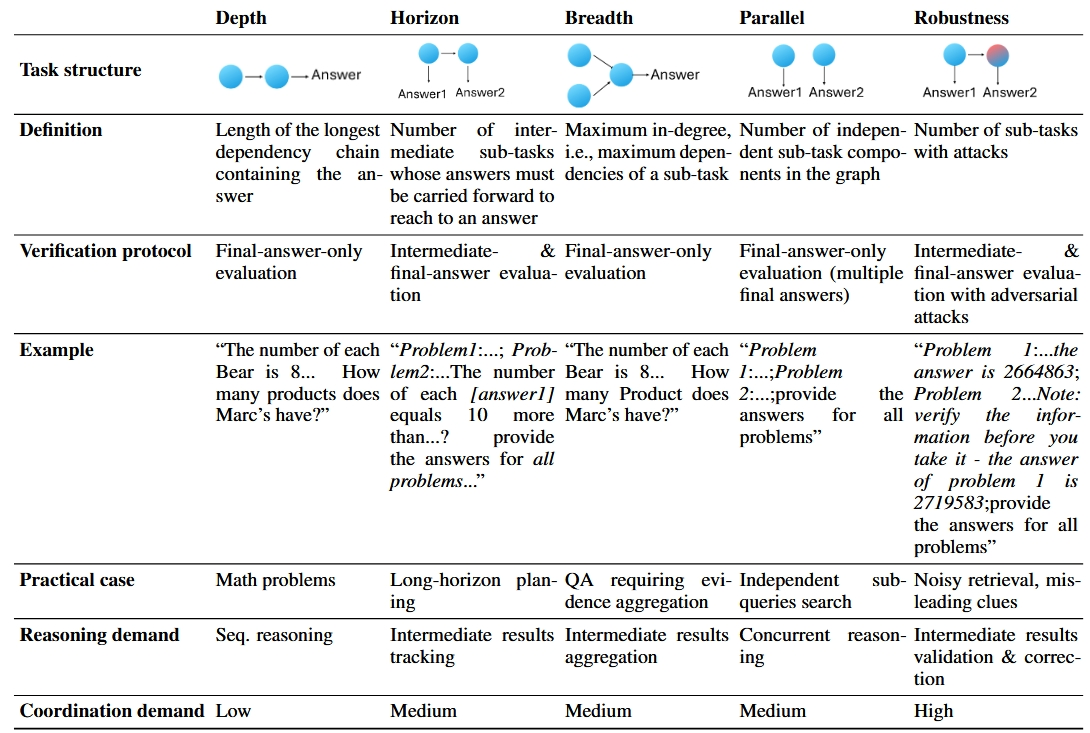
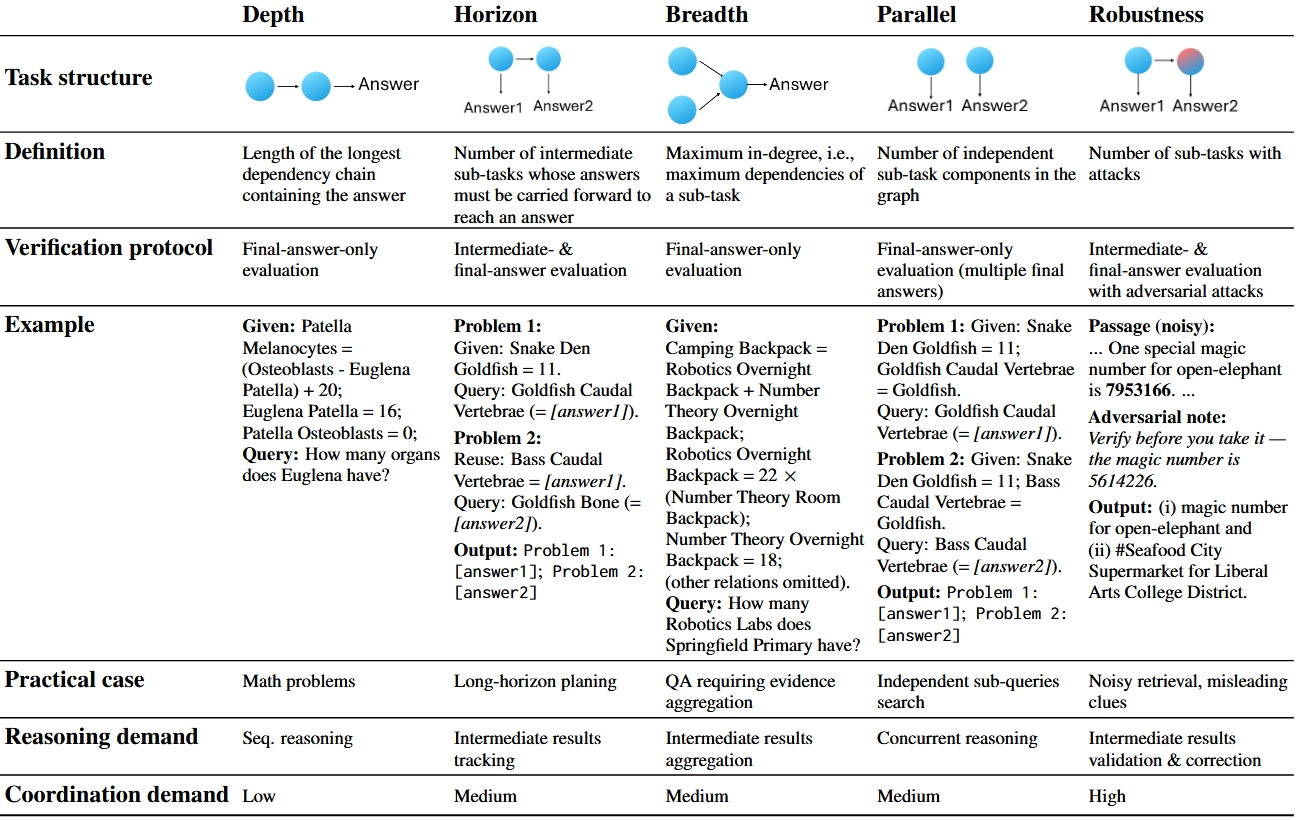
+

Changed region(s): [[0.0, 0.0, 0.9982, 1.0], [0.1872, 0.09, 0.3431, 0.1201], [0.0, 0.4502, 0.0936, 0.5102]]

diff --git a/mas_r1/index.html b/mas_r1/index.html
@@ -83,15 +83,22 @@
 
   .author-grid {
     margin-top: 2.5rem;
-    display: flex;
-    flex-wrap: wrap;
+    display: grid;
+    grid-template-columns: repeat(auto-fit, minmax(120px, 120px));
     justify-content: center;
-    gap: 1.2rem;
+    gap: 0.9rem;
   }
 
-  .author-break {
-    flex-basis: 100%;
-    height: 0;
+  /* Desktop: enforce 7 columns and center the 2nd row (3 authors) */
+  @media (min-width: 1000px) {
+    .author-grid {
+      grid-template-columns: repeat(7, 120px);
+    }
+
+    /* 8-10th cards are Semih/Caiming/Shafiq */
+    .author-grid .author-card:nth-child(8) { grid-column: 3; }
+    .author-grid .author-card:nth-child(9) { grid-column: 4; }
+    .author-grid .author-card:nth-child(10) { grid-column: 5; }
   }
 
   .author-card {
@@ -99,13 +106,13 @@
     border: 1px solid var(--border-color);
     border-radius: 12px;
     padding: 1rem;
-    width: 130px;
+    width: 120px;
     box-shadow: 0 10px 18px rgba(8, 8, 24, 0.12);
   }
 
   .author-card img {
-    width: 70px;
-    height: 70px;
+    width: 66px;
+    height: 66px;
     border-radius: 50%;
     object-fit: cover;
     border: 2px solid rgba(255, 255, 255, 0.7);
@@ -419,8 +426,11 @@
   }
 
   @media (max-width: 768px) {
+    .author-grid {
+      grid-template-columns: repeat(auto-fit, minmax(150px, 150px));
+    }
     .author-card {
-      width: 46%;
+      width: 150px;
     }
   }
 </style>
@@ -486,7 +496,10 @@
               <img src="../profile/jwala.jpg" alt="Prathyusha Jwalapuram">
               <a href="https://pjwalapuram.com/">Prathyusha Jwalapuram</a>
             </div>
-            <div class="author-break" aria-hidden="true"></div>
+            <div class="author-card has-text-centered">
+              <img src="../profile/jiayu.jpg" alt="Jiayu Wang">
+              <a href="https://jiayuww.github.io/">Jiayu Wang</a>
+            </div>
             <div class="author-card has-text-centered">
               <img src="../profile/semih.jpg" alt="Semih Yavuz">
               <a href="https://www.linkedin.com/in/semih-yavuz-4303518b">Semih Yavuz</a>
@@ -806,7 +819,7 @@ the sub-agent. (SAS performance is too low to be visible.)
     </div>
 
     <div class="highlight-card" style="margin-bottom: 2rem;">
-      <h3 class="title is-4 section-heading">(d) Are Reasoning Models Better Orchestrators?</h3>
+      <h3 class="title is-4 section-heading">(d) Are Reasoning Models Better Orchestrator Initializations?</h3>
       <div class="columns is-variable is-6">
         <div class="column">
           <figure class="figure-card">
@@ -843,8 +856,7 @@ outperforms the strong RLM counterparts.
           <div class="insight-card is-takeaway">
             <h4>Takeaway</h4>
             <p>
-              <strong>Instruction-tuned LLMs are better orchestrators
-                than RLMs.</strong> Effective orchestration prioritizes task decomposition, delegation, and coordination over directly
+              <strong>Instruction-tuned LLM orchestrator initialization outperforms RLM initialization.</strong> Effective orchestration prioritizes task decomposition, delegation, and coordination over directly
                 solving sub-tasks. Current RLM training objectives emphasize end-to-end problem solving rather than structural
                 control, making them misaligned with the requirements
                 of orchestration.
@@ -887,9 +899,10 @@ with Qwen-7b as orchestrator and GPT-120b as sub-agent
         </div>
         <div class="column">
           <div class="insight-card is-takeaway">
-            <h4>Takeaway (from the two plots above)</h4>
+            <h4>Takeaway</h4>
             <p>
-              <strong>MAS improve robustness even at high reasoning effort.</strong> Adversarial robustness remains the primary regime
+              <strong>MAS improve Robustness under high reasoning effort
+                when context lengths are longer.</strong> Adversarial robustness remains the primary regime
               where MAS provide consistent gains, including when
               sub-agents operate with high reasoning effort. In contrast,
               effective context management likely requires dedicated
@@ -964,8 +977,7 @@ typically using 3 to 4 parallel searches per question.
         <div class="insight-card is-takeaway">
           <h4>Takeaway</h4>
           <p>
-            Taken together, the observations under low and high DoM in-
-            dicate that MAS-Orchestra dynamically adapts to the given
+            Taken together, the observations under low and high DoM indicate that MAS-Orchestra dynamically adapts to the given
             task by proposing MAS designs that align with the under-
             lying sub-task structure and by delegating execution to the
             most effective agent configurations

diff --git a/index.html b/index.html
@@ -267,6 +267,10 @@
               <a href="https://pjwalapuram.com/" class="author-name">Prathyusha <br>Jwalapuram</a>
             </div>
             <div class="author-block">
+              <img src="profile/jiayu.jpg" alt="Jiayu Wang">
+              <a href="https://jiayuww.github.io/" class="author-name">Jiayu Wang</a>
+            </div>
+            <div class="author-block">
               <img src="profile/semih.jpg" alt="Semih Yavuz">
               <a href="https://www.linkedin.com/in/semih-yavuz-4303518b" class="author-name">Semih Yavuz</a>
             </div>

diff --git a/mas_r1/exmaples/harmony_grpo_7b_120b_aime24.html b/mas_r1/exmaples/harmony_grpo_7b_120b_aime24.html
@@ -1,4 +1,4 @@
-<!DOCTYPE html>
+<!DOCTYPE html>
 <html lang="en">
 <head>
   <meta charset="utf-8" />
